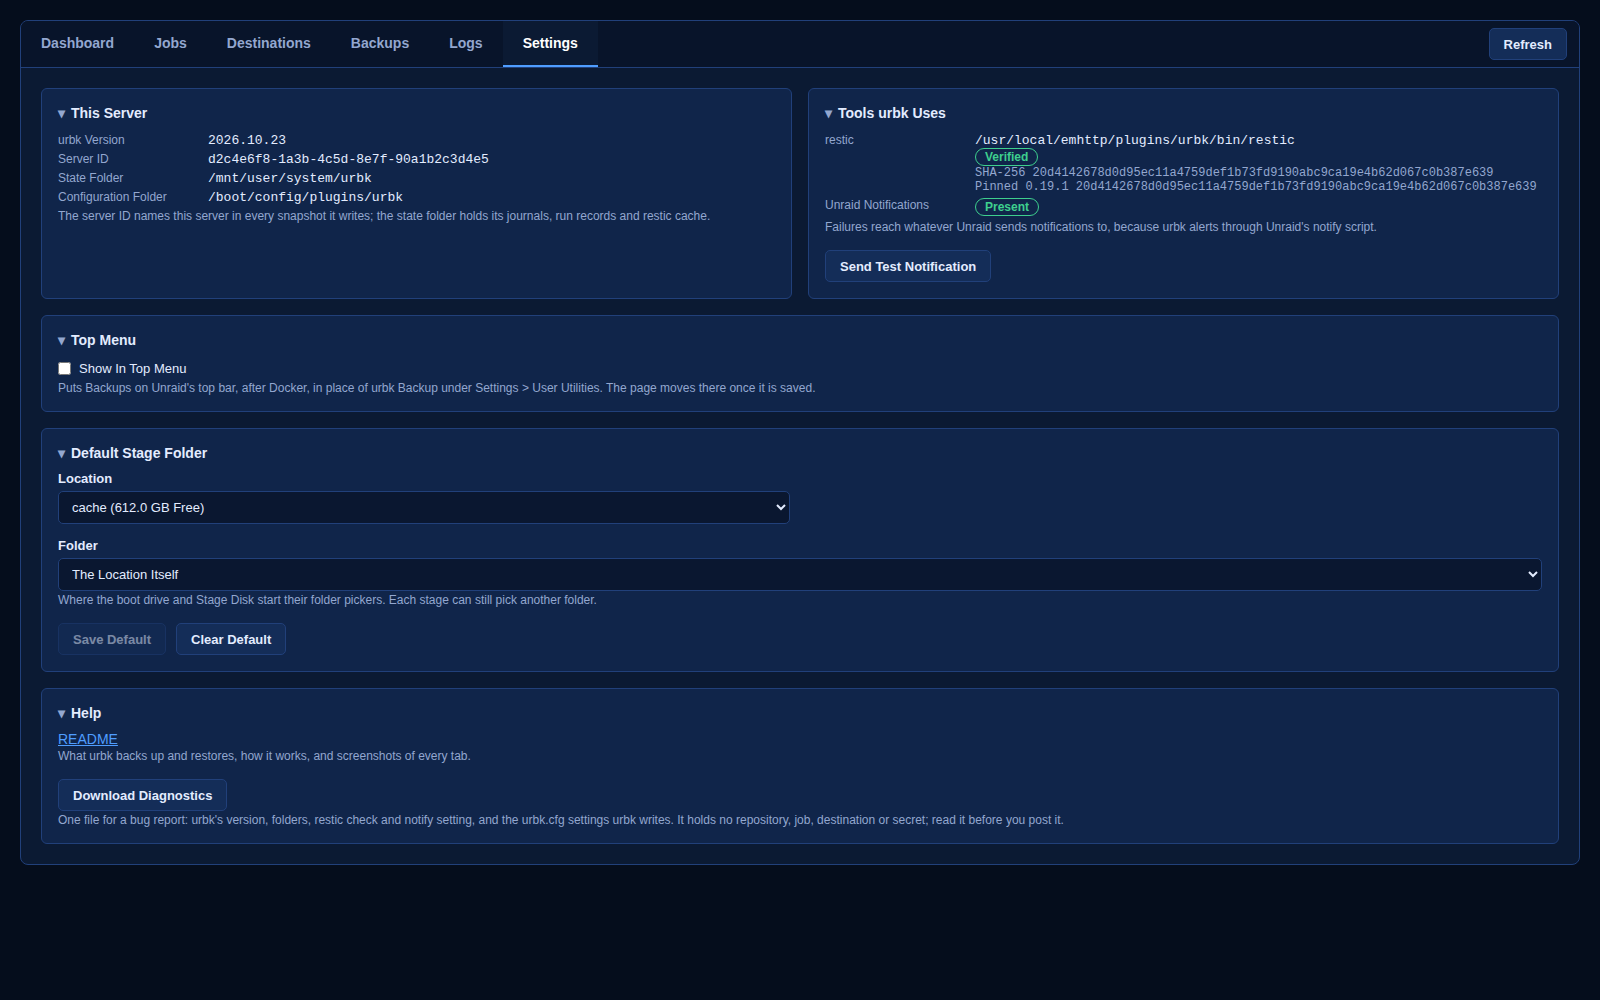
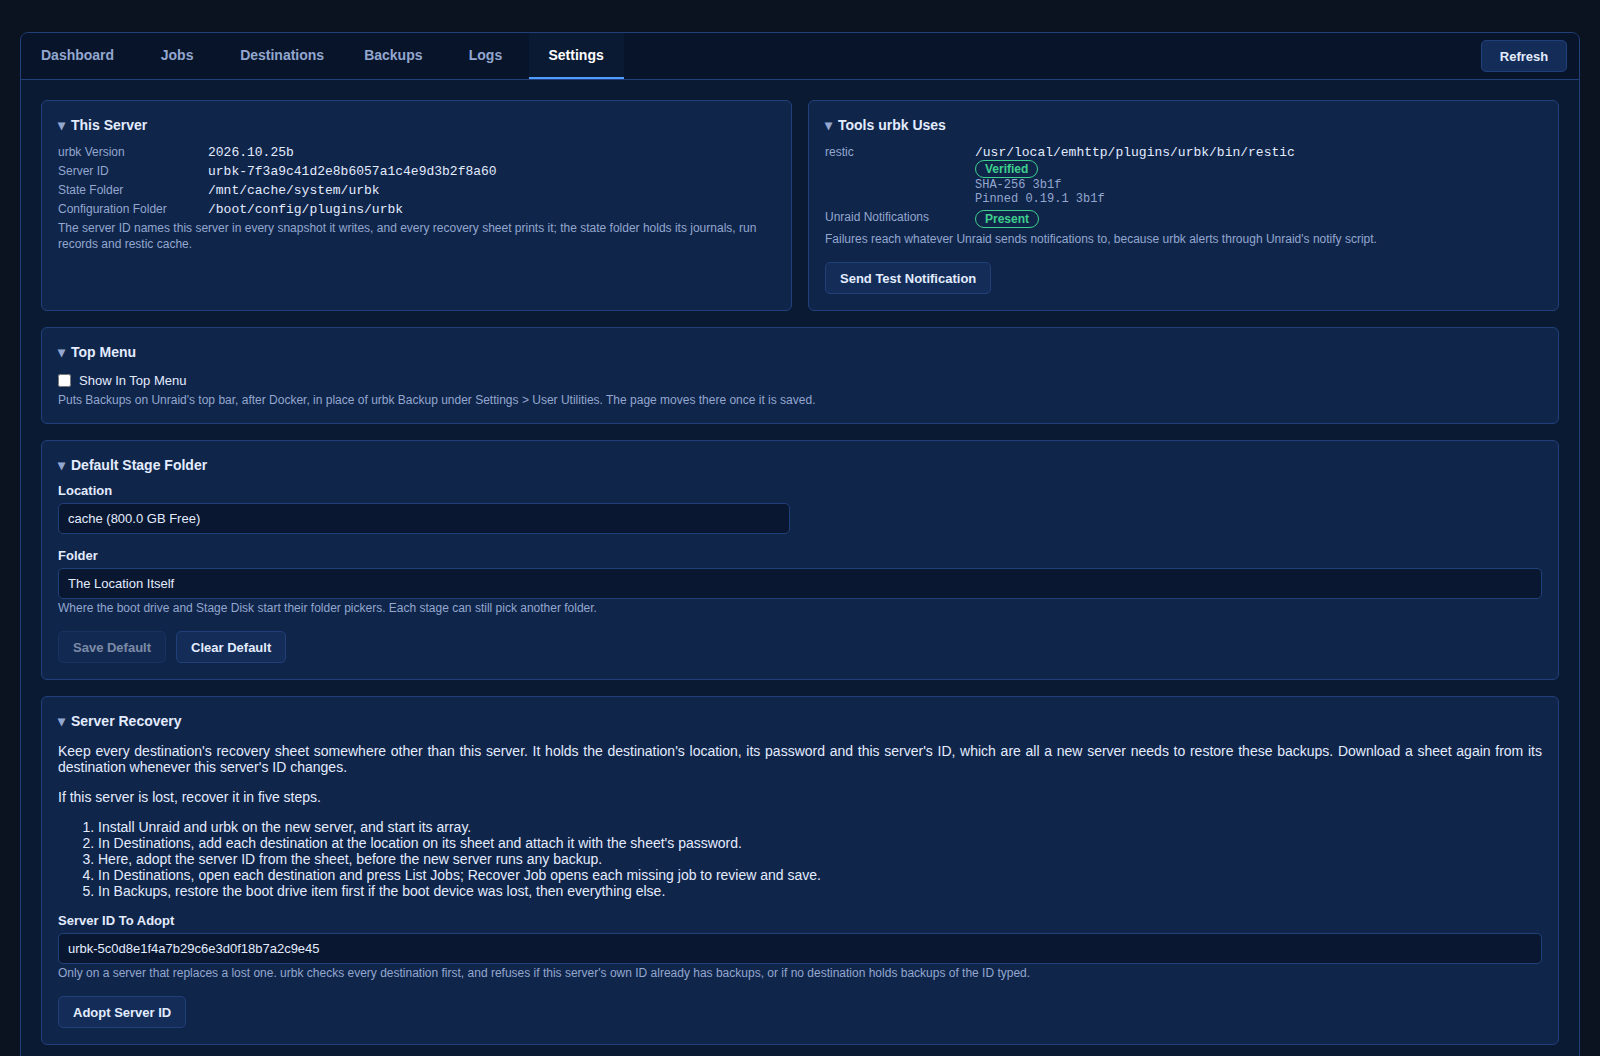
docs: the Dashboard says whether the server is protected, keep rules you can see, and Server Recovery screenshots

diff --git a/README.md b/README.md
@@ -109,6 +109,17 @@ flowchart LR
   data back on a schedule, in rotation, and restores a sample of each item;
   boot test starts a VM's newest backup as an isolated copy with no network
   and no host devices, then removes it.
+- **See at a glance whether the server is protected.** The Dashboard's
+  Health panel counts jobs, last runs OK, never run and not OK, and warns
+  about what needs you: no schedule, items in no job, a run, verify, check or
+  prune that did not pass or is overdue. It says all is well only when every
+  job is scheduled and last ran OK, every item is in a job, and every verify,
+  check and prune ran on time and passed. Unprotected lists the containers,
+  stacks and VMs no job backs up, without listing shares, which would wake
+  sleeping disks.
+- **Keep rules you can see.** As you type a job's keep rules, the job editor
+  says how many backups of each item they hold and how far back, on the job's
+  own schedule, with a timeline whose dots name the rules that keep them.
 - **Lose the server, keep the backups.** A new server needs only the
   recovery sheets: attach each destination with its password, adopt the old
   server's ID in Settings, Server Recovery, and list each destination's jobs
@@ -137,7 +148,7 @@ The screenshots show invented jobs, shares and servers, not a real one.
 | Dashboard | Logs |
 |:---:|:---:|
 | ![Dashboard](docs/images/gui-dashboard.png) | ![Logs](docs/images/gui-logs.png) |
-| What ran, what is running (with Abort), what is next, and what needs you | Every run, verify, check, prune and restore, with each item's result |
+| Health and what needs you, items no job backs up, how long each run took and how many items it backed up, and what is overdue | Every run, verify, check, prune and restore, with each item's result |
 
 | Jobs: Server Items | Jobs: Shares and Folders |
 |:---:|:---:|
@@ -147,7 +158,12 @@ The screenshots show invented jobs, shares and servers, not a real one.
 | Destinations | Settings |
 |:---:|:---:|
 | ![Destinations](docs/images/gui-destinations.png) | ![Settings](docs/images/gui-settings.png) |
-| Where backups go, their limits, checks and recovery sheets | This server and the tools urbk uses, a test notification, the top-bar option, the default stage folder, and diagnostics |
+| Where backups go, their limits, checks and recovery sheets | This server's ID and the tools urbk uses, the top-bar option, the default stage folder, and Server Recovery: the steps for a new server and Adopt Server ID |
+
+| Keep Rules | Recover a Lost Server's Jobs |
+|:---:|:---:|
+| ![Keep rules preview](docs/images/gui-keep-preview.png) | ![Jobs in a repository](docs/images/gui-destination-jobs.png) |
+| What a job's keep rules hold on its schedule, rule by rule, with a timeline | Jobs In This Repository lists the jobs a destination holds backups of; Recover Job brings back one whose file was lost |
 
 | Backups | Restore a Whole Run |
 |:---:|:---:|
